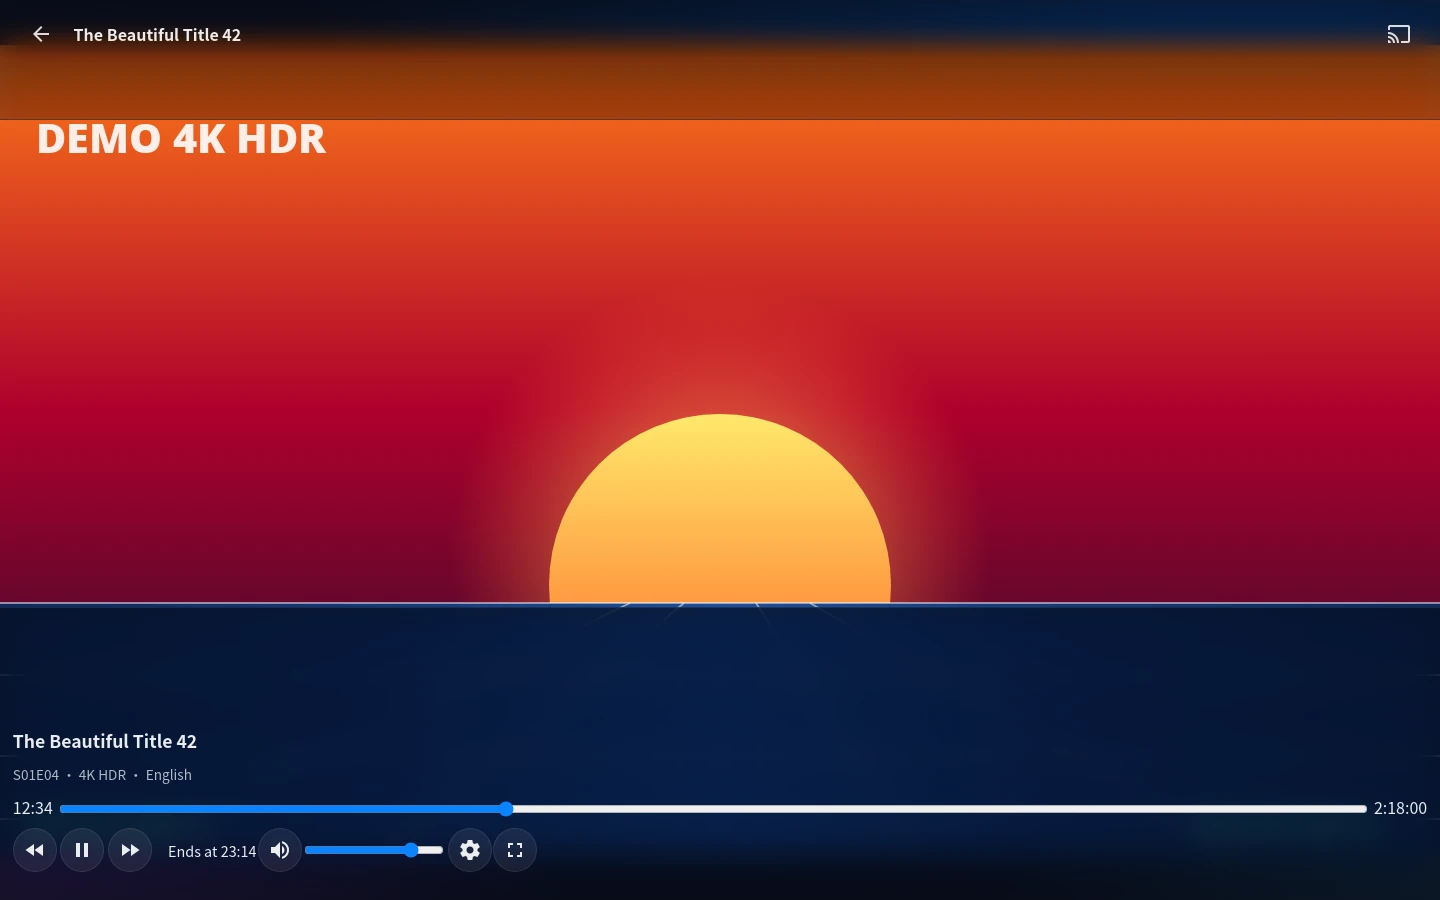
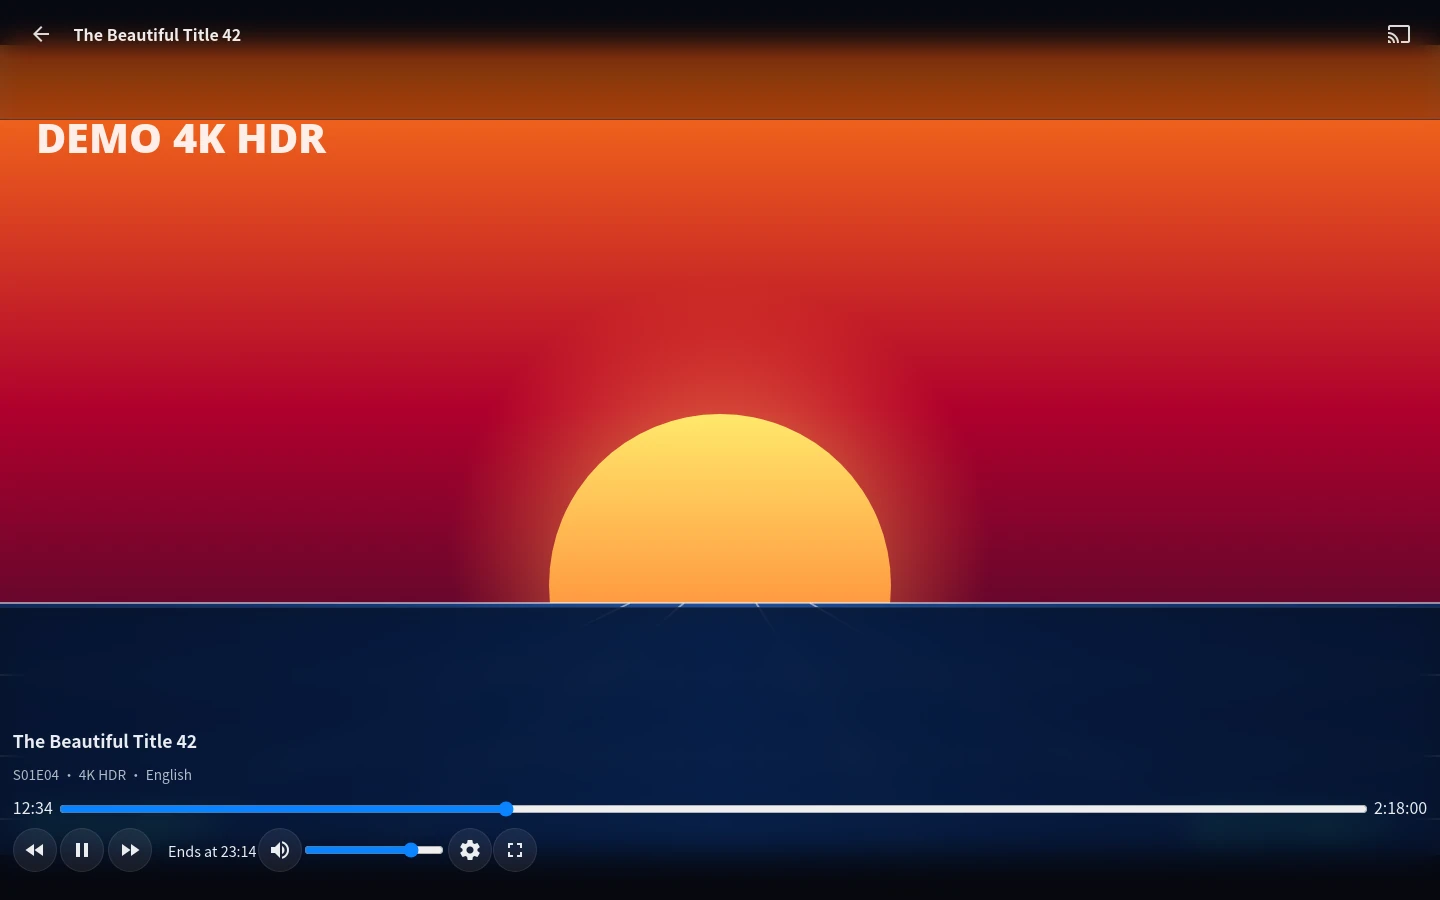
v4.0.1: fix black screen with audio only on Jellyfin 12.4
v4.0.0 painted the playback OSD page opaque black:

    .videoOsdPage, #videoOsdPage { background: #000 !important; }

That is fatal on jellyfin-web. The stock client inserts the video element
as body's first child inside .videoPlayerContainer (position: fixed) and
removes .videoPlayerContainer-onTop while the OSD is up, so the video
container sits at z-index: auto. #videoOsdPage is a position: absolute
descendant of .mainAnimatedPages and comes later in DOM order, so at equal
z-index it paints on top of the video. Upstream relies on that page being
fully transparent; an opaque background hides the entire frame and leaves
only audio. The letterbox bars are already painted by
.videoPlayerContainer's own background.

The rule is now the exact opposite, with a compound selector that outranks
a plain id rule so other custom CSS is less likely to re-break it:

    #videoOsdPage, .videoOsdPage, #videoOsdPage.mainAnimatedPage {
        background: transparent !important;
        background-color: transparent !important;
        background-image: none !important;
    }

Also stop compositing the 2.2%-opacity grain layer over video playback:

    body:has(.videoPlayerContainer)::after { display: none; }

Verified against the real 12.4 source tree (tag v12.4) and reproduced in a
Playwright harness that recreates the exact 12.4 DOM: with the v4.0.0 rule
the sampled centre pixel is rgb(2,2,2); with v4.0.1 it is the frame colour.
[…]

Changed region(s): [[0.4062, 0.0, 1.0, 0.0622], [0.0, 0.9644, 0.1875, 1.0]]

diff --git a/liquid-glass.css b/liquid-glass.css
@@ -111,16 +111,33 @@ body::after {
 #itemDetailPage,
 .dashboardDocument,
 .fullscreenDocument,
-.backgroundContainer,
-#videoOsdPage,
-.videoOsdPage {
+.backgroundContainer {
     background: transparent !important;
 }
 
-/* 播放器页自身铺纯黑(视频四周留黑边), 避免极光背景从画面缝隙里透出来 */
+/* ==========================================================================
+   播放器页必须保持完全透明 —— 否则整块视频被盖成黑屏
+   ==========================================================================
+   jellyfin-web 把 <video> 放在 body 的第一个子节点(.videoPlayerContainer,
+   position:fixed), 而播放 OSD 页 #videoOsdPage 是 .mainAnimatedPages 里
+   position:absolute 的后代 —— 在 DOM 里排在视频之后, 且两者都是 z-index:auto,
+   所以后出现的 OSD 页会画在视频上层。
+   htmlVideoPlayer/plugin.js 的 onNavigatedToOsd() 还会主动移除
+   .videoPlayerContainer-onTop, 视频因此失去唯一的 z-index:1000。
+   结论: 官方就是靠 #videoOsdPage 全透明让视频透出来的。
+   给它任何不透明背景 = 视频被整块盖住, 只剩声音(12.x 与 10.x 同理)。
+   画面四周的黑边由 .videoPlayerContainer 自带的 background:#000 提供。 */
+#videoOsdPage,
 .videoOsdPage,
-#videoOsdPage {
-    background: #000 !important;
+#videoOsdPage.mainAnimatedPage {
+    background: transparent !important;
+    background-color: transparent !important;
+    background-image: none !important;
+}
+
+/* 播放时不叠颗粒层: 0.022 的噪点铺在电影画面上属于画质损耗 */
+body:has(.videoPlayerContainer)::after {
+    display: none;
 }
 
 ::selection {

diff --git a/README.md b/README.md
@@ -68,7 +68,7 @@ v4 的改法：
 
 **方式二（离线 / 锁定版本）** —— 下载 [`liquid-glass.css`](liquid-glass.css)，把整个文件内容粘贴进同一个「自定义 CSS」框。
 
-保存后刷新页面（`Ctrl/Cmd + Shift + R`）即可生效。想锁版本就把 `@main` 换成某个 tag，例如 `@v4.0.0`。
+保存后刷新页面（`Ctrl/Cmd + Shift + R`）即可生效。想锁版本就把 `@main` 换成某个 tag，例如 `@v4.0.1`。
 
 ### 兼容性
 
@@ -76,7 +76,7 @@ v4 的改法：
 | --- | --- | --- |
 | 10.9.x | ✅ | 基于 `.videoOsdBottom` / `.osdControls` 经典类名 |
 | 10.10.x | ✅ | 同上，播放器 DOM 未变 |
-| 12.x | ✅ | 新增的 `.videoOsd-appBar` 安全区规则同样兼容 |
+| 12.x | ✅ | 已在 **12.4.0**（新 React 客户端 + 经典播放器视图）实测；`.videoOsd-appBar` 安全区规则同样兼容 |
 | 网页端（浏览器） | ✅ | Chrome / Edge / Firefox / Safari |
 | Android / iOS App | ✅ | 内置 WebView 走同一套 CSS |
 | Android TV / 电视端 | ✅ | 额外有 `.layout-tv` 焦点环优化 |
@@ -92,6 +92,10 @@ v4 的改法：
 **问：播放视频时底部还有一条模糊的东西挡画面？**
 
 答：v4 已修复。如果你看到的是 v3 的效果，说明浏览器缓存了旧 CSS —— 清缓存或改用带版本号的 `@import` 地址。
+
+**问：升级到 Jellyfin 12.4 后播放黑屏、只有声音？**
+
+答：这是 **v4.0.0 的 bug**，已在 **v4.0.1** 修复，不是 Jellyfin 的问题。原因：jellyfin-web 把 `<video>` 放在 `body` 的第一个子节点 `.videoPlayerContainer`（`position:fixed`），而播放 OSD 页 `#videoOsdPage` 在 DOM 里排在它之后、两者都是 `z-index:auto`，所以 OSD 页永远画在视频上层 —— 官方就是靠这个页面**全透明**让画面透出来的。v4.0.0 给它加了 `background:#000`，结果整块画面被盖成纯黑、声音照常播放。v4.0.1 已改回全透明。把 `@import` 地址里的 tag 换成 `@v4.0.1`（或清一次缓存）即可。
 
 **问：会不会影响播放性能？**
 
@@ -136,7 +140,7 @@ v4 的改法：
 ### 文件结构
 
 ```
-liquid-glass.css              # 主题本体（3435 行，单文件，无外部依赖）
+liquid-glass.css              # 主题本体（3453 行，单文件，无外部依赖）
 docs/screenshots/*.webp       # 截图
 docs/schema.jsonld            # Schema.org 结构化数据（SoftwareApplication + FAQPage）
 llms.txt                      # 给 AI 引擎的内容索引
@@ -205,7 +209,7 @@ Result: the glass is **211px** tall at 1440×900 (was 293px) and **235px** on a 
 
 **Option 2 (offline / pinned)** — download [`liquid-glass.css`](liquid-glass.css) and paste the entire file into the same Custom CSS box.
 
-Save, then hard-refresh (`Ctrl/Cmd + Shift + R`). To pin a version, replace `@main` with a tag such as `@v4.0.0`.
+Save, then hard-refresh (`Ctrl/Cmd + Shift + R`). To pin a version, replace `@main` with a tag such as `@v4.0.1`.
 
 ### Compatibility
 
@@ -213,7 +217,7 @@ Save, then hard-refresh (`Ctrl/Cmd + Shift + R`). To pin a version, replace `@ma
 | --- | --- | --- |
 | 10.9.x | ✅ | Built on the classic `.videoOsdBottom` / `.osdControls` class names |
 | 10.10.x | ✅ | Player DOM unchanged |
-| 12.x | ✅ | Also handles the newer `.videoOsd-appBar` safe-area rules |
+| 12.x | ✅ | Verified on **12.4.0** (new React client + legacy player view); also handles the newer `.videoOsd-appBar` safe-area rules |
 | Web (browser) | ✅ | Chrome / Edge / Firefox / Safari |
 | Android / iOS app | ✅ | Their embedded WebView loads the same CSS |
 | Android TV / TV clients | ✅ | Extra `.layout-tv` focus-ring tuning |
@@ -229,6 +233,10 @@ Jellyfin caches custom CSS. Hard-refresh first (`Ctrl/Cmd + Shift + R`), confirm
 **There is still a blurry bar covering the bottom of the video while playing.**
 
 That is the v3 behaviour, fixed in v4. If you still see it, your browser is serving cached CSS — clear the cache or switch to a versioned `@import` URL.
+
+**Black screen with audio only after upgrading to Jellyfin 12.4?**
+
+That was a **v4.0.0 bug**, fixed in **v4.0.1** — not a Jellyfin problem. jellyfin-web inserts the `<video>` element as `body`'s first child (`.videoPlayerContainer`, `position:fixed`), while the playback OSD page `#videoOsdPage` comes later in DOM order and both are `z-index:auto` — so the OSD page always paints above the video. Upstream relies on that page being fully **transparent**. v4.0.0 gave it `background:#000`, which covered the whole picture while audio kept playing. v4.0.1 restores full transparency. Point your `@import` at `@v4.0.1` (or clear the cache) to update.
 
 **Does it hurt playback performance?**
 
@@ -273,7 +281,7 @@ Captured from the project's own mock UI (**no real library data**) so the theme 
 ### Repository layout
 
 ```
-liquid-glass.css              # the theme (3435 lines, single file, no dependencies)
+liquid-glass.css              # the theme (3453 lines, single file, no dependencies)
 docs/screenshots/*.webp       # screenshots
 docs/schema.jsonld            # Schema.org structured data (SoftwareApplication + FAQPage)
 llms.txt                      # content index for AI engines
